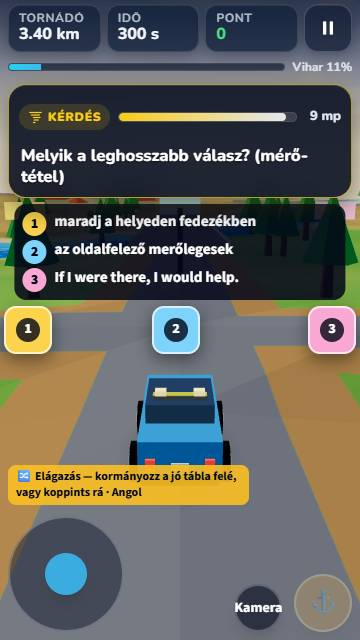
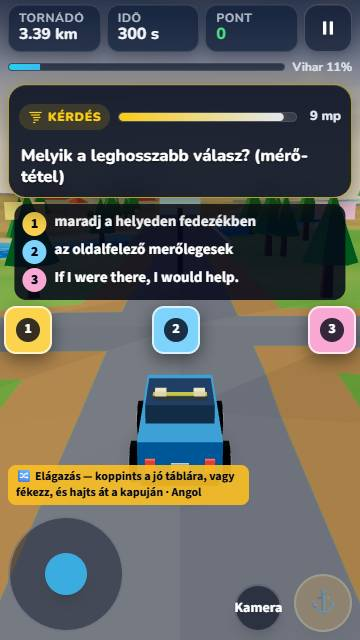
test(jatekok): J7b – tornado-play 60 s-os keret, új képernyőképek az új feladat-felirattal
A rögzítés előtti ≥ 1 s olvasás után a rossz kapus eset a 30 s-os alapkeret szélére ért (360x640, szoftveres WebGL).
A mérce változatlan. A képek az új „koppints a jó táblára, vagy fékezz” felirattal készültek.

Changed region(s): [[0.0306, 0.7188, 0.6722, 0.7812], [0.0611, 0.0312, 0.2139, 0.0625], [0.7639, 0.1562, 0.7944, 0.1875]]

diff --git a/source/tests/tornado-play.spec.ts b/source/tests/tornado-play.spec.ts
@@ -20,6 +20,10 @@ type GameWindow = {
   };
 };
 
+// A játékos valódi várakozásai: a director bemelegítése (~10 s), a ≥ 1 s-os olvasás a rögzítés előtt (J7b döntések 25.),
+// az áthajtás, a ≥ 1,8 s-os megoldás-kijelzés és a „Miért?” kártya — a 30 s-os alapkeret szoftveres WebGL-en szűk.
+test.describe.configure({ timeout: 60_000 });
+
 const VIEWPORTS = [
   { width: 844, height: 390 },
   { width: 390, height: 844 },
